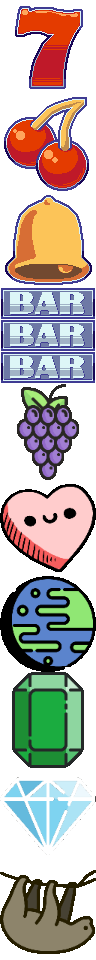
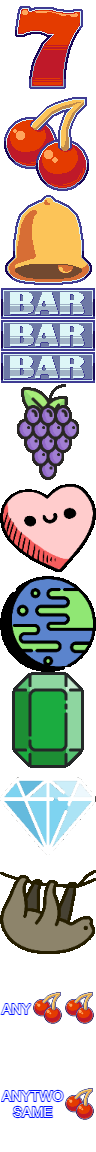
anyone two cherry + anysame cherry Jeckpot追加

diff --git a/public/js/main.js b/public/js/main.js
@@ -33,6 +33,7 @@ let stopDelayTime = 0.0;
 //Control Status value
 let bettingAmount = 10;
 let coin = 1000;
+let award = 0;
 
 //Gold Effect value
 let effplayTime = 0;
@@ -48,16 +49,16 @@ let goldEF = {
 //Context
 const animEnum = Object.freeze({handle : {idle : 0, pull : 1}});
 const symbol = Object.freeze({
-	seven : { idx: SYMBOL_WIDTH * 2, award : 7},
-	cherry : { idx: SYMBOL_WIDTH * 1,  award : 3},
-	bell : { idx: SYMBOL_WIDTH * 0, award : 20},
-	bar : { idx: SYMBOL_WIDTH * -1,  award : 100},
-	grape : { idx: SYMBOL_WIDTH * -2, award : 10},
-	heart : { idx: SYMBOL_WIDTH * -3, award : 30},
-	earth : { idx: SYMBOL_WIDTH * -4,  award : 50},
-	emerald : { idx: SYMBOL_WIDTH * -5,  award : 77},
-	diamond : { idx: SYMBOL_WIDTH * -6 , award : 777},
-	animal : { idx: SYMBOL_WIDTH * -7, award : 33}
+	seven : { n: SYMBOL_WIDTH * 2, award : 7},
+	cherry : { n: SYMBOL_WIDTH * 1,  award : 3},
+	bell : { n: SYMBOL_WIDTH * 0, award : 20},
+	bar : { n: SYMBOL_WIDTH * -1,  award : 100},
+	grape : { n: SYMBOL_WIDTH * -2, award : 10},
+	heart : { n: SYMBOL_WIDTH * -3, award : 30},
+	earth : { n: SYMBOL_WIDTH * -4,  award : 50},
+	emerald : { n: SYMBOL_WIDTH * -5,  award : 77},
+	diamond : { n: SYMBOL_WIDTH * -6 , award : 777},
+	animal : { n: SYMBOL_WIDTH * -7, award : 33}
 });
 
 //#canvas
@@ -73,7 +74,7 @@ const UI_WIN_GETCOIN_TXT_STYLE = {dropShadow: true, fill: ["#fff370","#fd0"],fil
 
 const UI = {
 	symbolsTileSetImg: new PIXI.Sprite.from('../img/slot-symbols2.png'),
-	symbolsScoreTxt: new PIXI.Text(`x7\n\nx3\n\nx20\n\nx100\n\nx10\n\nx30\n\nx50\n\nx77\n\nx777\n\nx33`, UI_BETTING_AMOUNT_TXT_STYLE),
+	symbolsScoreTxt: new PIXI.Text(`x7\n\nx3\n\nx20\n\nx100\n\nx10\n\nx30\n\nx50\n\nx77\n\nx777\n\nx33\n\nx2\n\nx5`, UI_BETTING_AMOUNT_TXT_STYLE),
 	bettingTxt : new PIXI.Text(`ベッティング金額：${bettingAmount}`,UI_BETTING_AMOUNT_TXT_STYLE),
 	coinTxt : new PIXI.Text(`💰コイン：${coin}`,UI_COIN_TXT_STYLE),
 	winTxt : new PIXI.Text(`💱当たりました！💸`, UI_WIN_TXT_STYLE),
@@ -212,7 +213,8 @@ spr.slotHandle.obj.on("click", ()=> {
 	else{
 		//スロットが全部止める前には、ハンドルコントロール禁止(BUG)
 		if(stopDelayTime <= stopSlotDelaySpan * 3) return;
-		if(isWin) return;
+		//当たったら、日程時間(エフェクト再生)ハンドルコントール停止。
+		// if(isWin) return;
 
 		isPullHandle = false;
 		spr.slotHandle.obj.texture = spr.slotHandle.anim[animEnum.handle.idle];
@@ -266,9 +268,16 @@ app.ticker.add(cnt=>{
 			if(stopDelayTime < stopSlotDelaySpan * 3) stopDelayTime += cnt;
 			const stopValue = 0.85;
 			spr.slotSymbolTileSet.forEach((slot, i) => {
-				if(!isSlotStopList[i]) {isSlotStopList[i]=true; slotResultList[i] = getRandomSymbol();}
-				if(stopDelayTime > stopSlotDelaySpan * stopValue * (i+1)) slot.y = slotResultList[i] + posYOverDown;
-				if(slot.y > slotResultList[i]) slot.y -= stopDelayTime; //console.log(slot.y , slotResultList[i]); 
+				//Entry slot結果を初期化
+				if(!isSlotStopList[i]) {isSlotStopList[i]=true; slotResultList[i] = getRandomSymbol()}
+				//Animation 止めるslotの位置を↓にちょっとずれる
+				if(stopDelayTime > stopSlotDelaySpan * stopValue * (i+1)) {
+					slot.y = slotResultList[i] + posYOverDown;
+					if(i == spr.slotSymbolTileSet.length-1) result();
+				}
+				//Animation ずれたslotの位置を戻す
+				if(slot.y > slotResultList[i]) {slot.y -= stopDelayTime; }//console.log(slot.y , slotResultList[i]); 
+				
 			});
 		}
 	});
@@ -346,34 +355,53 @@ function init(){
 	UI.winTxt.visible = false;
 	UI.getCoinTxt.visible = false;
 };
-
 function result(){
 	if(!isFinish){
+		console.log("RESULT");
 		isFinish = true;
 		console.log("result : ", slotResultList[0], slotResultList[1], slotResultList[2]);
 		//当たりました！
-		if(slotResultList[0] === slotResultList[1] && slotResultList[1] === slotResultList[2] && slotResultList[2] === slotResultList[0] && !isWin){
-			isWin = true;
-			effplayTime = 0;
-			let award = 0;
-			switch(slotResultList[0]){//get coin
-				case symbol.seven.idx:		award =	symbol.seven.award;		coin += bettingAmount * award;	break;
-				case symbol.cherry.idx:		award = symbol.cherry.award;	coin += bettingAmount * award;	break;
-				case symbol.bell.idx:		award = symbol.bell.award;		coin += bettingAmount * award;	break;
-				case symbol.bar.idx:		award = symbol.bar.award;		coin += bettingAmount * award;	break;
-				case symbol.grape.idx:		award = symbol.grape.award;		coin += bettingAmount * award;	break;
-				case symbol.heart.idx:		award = symbol.heart.award;		coin += bettingAmount * award;	break;
-				case symbol.earth.idx:		award = symbol.earth.award;		coin += bettingAmount * award;	break;
-				case symbol.emerald.idx:	award = symbol.emerald.award;	coin += bettingAmount * award;	break;
-				case symbol.diamond.idx:	award = symbol.diamond.award;	coin += bettingAmount * award;	break;
-				case symbol.animal.idx:		award = symbol.animal.award;	coin += bettingAmount * award;	break;
+		//1.ONELINE SAME
+		if(slotResultList[0] == slotResultList[1]
+				&& slotResultList[1] == slotResultList[2]
+				&& slotResultList[2] == slotResultList[0] && !isWin
+			){
+			isWin = true;	effplayTime = 0;
+			//add coin
+			switch(slotResultList[0]){
+				case symbol.seven.n:	award =	symbol.seven.award;		coin += bettingAmount * award;	break;
+				case symbol.cherry.n:	award = symbol.cherry.award;	coin += bettingAmount * award;	break;
+				case symbol.bell.n:		award = symbol.bell.award;		coin += bettingAmount * award;	break;
+				case symbol.bar.n:		award = symbol.bar.award;		coin += bettingAmount * award;	break;
+				case symbol.grape.n:	award = symbol.grape.award;		coin += bettingAmount * award;	break;
+				case symbol.heart.n:	award = symbol.heart.award;		coin += bettingAmount * award;	break;
+				case symbol.earth.n:	award = symbol.earth.award;		coin += bettingAmount * award;	break;
+				case symbol.emerald.n:	award = symbol.emerald.award;	coin += bettingAmount * award;	break;
+				case symbol.diamond.n:	award = symbol.diamond.award;	coin += bettingAmount * award;	break;
+				case symbol.animal.n:	award = symbol.animal.award;	coin += bettingAmount * award;	break;
 			}
-			UI.coinTxt.text = `💰コイン：${coin}`;
-			UI.getCoinTxt.text = `${bettingAmount * award}円 習得 (X${award}倍)`;
 		}
-		else{
-			console.log("OMG....");
+		//2.ANY, CHERRY, CHERRY
+		else if(slotResultList[0]==symbol.cherry.n && slotResultList[1]==symbol.cherry.n
+				|| slotResultList[0]==symbol.cherry.n && slotResultList[2]==symbol.cherry.n 
+				|| slotResultList[1]==symbol.cherry.n && slotResultList[2]==symbol.cherry.n 
+			){
+			isWin = true;	effplayTime = 0;
+			award = 5;
+			coin += bettingAmount * award;
 		}
+		//3.SAME, SAME, CHERRY
+		else if(slotResultList[0]==symbol.cherry.n && slotResultList[1]==slotResultList[2]
+				|| slotResultList[1]==symbol.cherry.n && slotResultList[0]==slotResultList[2]
+				|| slotResultList[2]==symbol.cherry.n && slotResultList[0]==slotResultList[1]
+			){
+			isWin = true;	effplayTime = 0;
+			award = 2;
+			coin += bettingAmount * award;
+		}
+		//UI結果表示
+		UI.coinTxt.text = `💰コイン：${coin}`;
+		UI.getCoinTxt.text = `${bettingAmount * award}円 習得 (X${award}倍)`;
 	}
 }
 
@@ -381,7 +409,7 @@ function getRandomSymbol(){ //start 2「SEVEN」 , end -7「ANIMAL」
 	return (getRandomInt(-7, 2) * SYMBOL_WIDTH);
 }
 
-//calc
+//calc------------------------------------------------------------------------------------------
 function getRandomInt(min, max) {
 	min = Math.ceil(min);
 	max = Math.floor(max);
